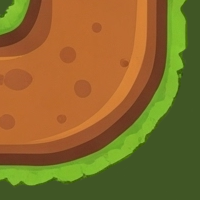
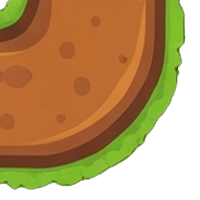
fixed some forest tiles. fixed audio issue, improved start event

diff --git a/src/App.tsx b/src/App.tsx
@@ -1,68 +1,48 @@
 // src/App.tsx
 import { useState, useEffect } from "react";
-
 import MainMenu from "./components/game/MainMenu";
+import StartupScreen from './StartupScreen';
 import GameManager from "./components/GameManager";
 import { audio } from "./audio/AudioManager";
 
-type Screen = "menu" | "game";
+// Importa direttamente il file audio dalla sua posizione
+import backgroundMusic from "/audio/START_Adventure_Groove.mp3";
+import gameMusic from "/audio/CiucoForestThemeSong.mp3";
 
-function App() {
-  const [screen, setScreen] = useState<Screen>("menu");
-
-  const startGame = () => setScreen("game");
+const App = () => {
+  const [screenState, setScreenState] = useState('startup');
 
   useEffect(() => {
-    audio.add("menu", "/audio/START_Adventure_Groove.mp3");
-    audio.add("level1", "/audio/START_Adventure_Groove.mp3");
-
-    const onFirstUnlock = async () => {
-      removeUnlockers();
-      try {
-        console.log("[App] First user gesture → unlocking audio");
-        await audio.play("menu", { volume: 0.55, fadeMs: 700 });
-      } catch (err) {
-        console.error("[App] Even after unlock, audio failed", err);
-      }
-    };
-
-    const addUnlockers = () => {
-      window.addEventListener("pointerdown", onFirstUnlock, { once: true });
-      window.addEventListener("keydown", onFirstUnlock, { once: true });
-      document.addEventListener("visibilitychange", onFirstUnlock, { once: true });
-    };
-
-    const removeUnlockers = () => {
-      window.removeEventListener("pointerdown", onFirstUnlock);
-      window.removeEventListener("keydown", onFirstUnlock);
-      document.removeEventListener("visibilitychange", onFirstUnlock);
-    };
-
-    const tryStartMenu = async () => {
-      try {
-        console.log("[App] Trying autoplay of menu music…");
-        await audio.play("menu", { volume: 0.55, fadeMs: 700 });
-        removeUnlockers();
-      } catch {
-        console.log("[App] Autoplay blocked, waiting for first user gesture");
-        addUnlockers();
-      }
-    };
-
-    void tryStartMenu();
-
-    return () => {
-      removeUnlockers();
-      // opzionale: audio.stopAll();
-    };
+    console.log("[App.tsx] Caricamento iniziale...");
+    audio.add('MainMenu_Theme', backgroundMusic);
+    audio.add('CiucoForest_Theme', gameMusic);
   }, []);
 
+  const handleShowMainMenu = () => {
+    console.log("[App.tsx] Transizione a MainMenu.");
+    setScreenState('mainMenu');
+  };
+
+  const handleStartGame = () => {
+    console.log("[App.tsx] Avvio del gioco.");
+    audio.stop('MainMenu_Theme');
+    audio.play('CiucoForest_Theme', { loop: true, volume: 0.5, fadeMs: 600 });
+    setScreenState('game');
+  };
+
   return (
-    <main className="min-h-screen w-full">
-      {screen === "menu" && <MainMenu onStartNewGame={startGame} />}
-      {screen === "game" && <GameManager />}
-    </main>
+    <div className="App">
+      {screenState === 'startup' && (
+        <StartupScreen onStart={handleShowMainMenu} />
+      )}
+      {screenState === 'mainMenu' && (
+        <MainMenu onStartNewGame={handleStartGame} />
+      )}
+      {screenState === 'game' && (
+        <GameManager />
+      )}
+    </div>
   );
-}
+};
 
 export default App;

diff --git a/src/components/game/MainMenu.tsx b/src/components/game/MainMenu.tsx
@@ -1,3 +1,5 @@
+// src/components/game/MainMenu.tsx
+
 import { useState, useEffect } from 'react';
 import { Button } from "@/components/ui/button";
 
@@ -5,7 +7,7 @@ import mainMenuBackground from '@/assets/SfondoCiuco1.png';
 import titleImage from '@/assets/MainPageTitle3.png';
 
 interface MainMenuProps {
-  onStartNewGame: () => void;
+  onStartNewGame: () => void; // L'interfaccia è corretta
 }
 
 const MainMenu = ({ onStartNewGame }: MainMenuProps) => {
@@ -26,7 +28,6 @@ const MainMenu = ({ onStartNewGame }: MainMenuProps) => {
     };
   }, []);
 
-  // Classi per il contenitore principale che cambiano allineamento
   const mainContainerClasses = `
     absolute inset-0 w-full h-full flex flex-col p-8 transition-all duration-1000
     ${animationState === 'loaded' ? 'items-start justify-end' : 'items-center justify-center'}
@@ -34,7 +35,6 @@ const MainMenu = ({ onStartNewGame }: MainMenuProps) => {
 
   return (
     <div className="min-h-screen w-full relative overflow-hidden bg-black">
-      {/* SFONDO DEL MENU (che appare con dissolvenza) */}
       <div
         className="absolute inset-0 w-full h-full transition-opacity duration-1000"
         style={{
@@ -44,13 +44,7 @@ const MainMenu = ({ onStartNewGame }: MainMenuProps) => {
           opacity: animationState === 'loaded' ? 1 : 0,
         }}
       />
-
-      {/* CONTENITORE PER GLI ELEMENTI ANIMATI */}
-      {/* 1. MODIFICA: L'allineamento cambia da 'center' a 'start' (sinistra) */}
       <div className={mainContainerClasses}>
-
-        {/* BOTTONI DEL MENU (ora allineati a sinistra) */}
-        {/* Vengono renderizzati prima del logo per il controllo z-index, ma appaiono dopo */}
         <div
           className={`
             flex flex-col gap-4 w-full max-w-xs
@@ -59,6 +53,7 @@ const MainMenu = ({ onStartNewGame }: MainMenuProps) => {
           `}
         >
           <Button
+            // CORRETTO: Chiamiamo la prop onStartNewGame
             onClick={onStartNewGame}
             className="text-lg py-6 bg-green-600/80 hover:bg-green-500/80 shadow-lg border-green-400/50"
           >
@@ -72,9 +67,6 @@ const MainMenu = ({ onStartNewGame }: MainMenuProps) => {
           </Button>
         </div>
       </div>
-
-      {/* SFONDO NERO INIZIALE (che scompare) */}
-      {/* Questo `div` sta sopra lo sfondo del menu ma sotto il logo */}
       <div
         className={`
           absolute inset-0 w-full h-full bg-black z-10
@@ -82,9 +74,6 @@ const MainMenu = ({ onStartNewGame }: MainMenuProps) => {
           ${animationState === 'loaded' ? 'opacity-0 pointer-events-none' : 'opacity-100'}
         `}
       />
-
-      {/* IMMAGINE DEL TITOLO ANIMATA (Sopra tutto) */}
-      {/* 2. MODIFICA: Animazione e posizione finale a sinistra */}
       <img
         src={titleImage}
         alt="DonkeyChicken Odyssey Title"

diff --git a/src/audio/AudioManager.ts b/src/audio/AudioManager.ts
@@ -1,3 +1,5 @@
+// src/audio/AudioManager.ts
+
 class AudioManager {
   private tracks: Record<string, HTMLAudioElement> = {};
   private current?: string;
@@ -8,7 +10,6 @@ class AudioManager {
     a.preload = "auto";
     a.loop = true;
     a.volume = 0;
-    a.muted = true; // 👈 trucco: partire muted
     this.tracks[name] = a;
     console.log(`[AudioManager] Added track "${name}" -> ${url}`);
   }
@@ -21,23 +22,41 @@ class AudioManager {
       return;
     }
 
-    next.loop = loop;
-    try {
-      if (next.paused) {
-        await next.play();
-        console.log(`[AudioManager] Playing track "${name}" (muted-first OK)`);
-      }
-      // smuta subito dopo per sbloccare
-      setTimeout(() => {
-        next.muted = false;
-        console.log(`[AudioManager] Track "${name}" unmuted`);
-      }, 0);
-    } catch (err) {
-      console.warn(`[AudioManager] Autoplay blocked for "${name}"`, err);
-      throw err; // rilancia, così gli unlockers in App.tsx intervengono
+    if (this.current && this.current !== name) {
+        this.stop(this.current);
     }
 
-    // qui puoi mettere la logica di cross-fade (omessa per brevità)
+    this.current = name;
+    next.loop = loop;
+    try {
+        // Aggiungi un'interazione esplicita per attivare la riproduzione
+        if (next.paused) {
+            await next.play();
+            console.log(`[AudioManager] Playing track "${name}" (unmuted)`);
+            next.volume = volume;
+        }
+    } catch (err) {
+      console.warn(`[AudioManager] Autoplay blocked for "${name}"`, err);
+      // Rilancia l'errore per gestirlo nel componente App
+      throw err;
+    }
+
+    // Il cross-fade può essere aggiunto qui, se necessario
+  }
+
+  stop(name: string) {
+    const track = this.tracks[name];
+    if (track) {
+      track.pause();
+      track.currentTime = 0;
+      console.log(`[AudioManager] Track "${name}" fermata.`);
+    }
+  }
+
+  stopAll() {
+    for (const name in this.tracks) {
+      this.stop(name);
+    }
   }
 }
 

diff --git a/src/StartupScreen.tsx b/src/StartupScreen.tsx
@@ -1,0 +1,52 @@
+// src/components/StartupScreen.tsx
+
+import { useEffect, useState } from 'react';
+import { audio } from './audio/AudioManager';
+
+interface StartupScreenProps {
+  onStart: () => void;
+}
+
+const StartupScreen = ({ onStart }: StartupScreenProps) => {
+  const [isVisible, setIsVisible] = useState(true);
+
+  const handleInteraction = () => {
+    // Avvia la musica del menu
+    audio.play('MainMenu_Theme', { loop: true, volume: 0.5, fadeMs: 600 });
+
+    // Inizia la transizione di dissolvenza
+    setIsVisible(false);
+
+    // Dopo che la transizione è finita, passa alla schermata successiva
+    setTimeout(() => {
+        onStart();
+    }, 1000); // La durata del timeout deve corrispondere alla durata della transizione CSS
+  };
+
+  useEffect(() => {
+    const handleKeyDown = () => {
+      handleInteraction();
+    };
+    window.addEventListener('keydown', handleKeyDown);
+    return () => {
+      window.removeEventListener('keydown', handleKeyDown);
+    };
+  }, [onStart]);
+
+  return (
+    <div
+      onClick={handleInteraction}
+      className={`
+        fixed inset-0 bg-black flex flex-col items-center justify-center cursor-pointer
+        transition-opacity duration-1000
+        ${isVisible ? 'opacity-100' : 'opacity-0 pointer-events-none'}
+      `}
+    >
+      <div className="text-center">
+        <p className="text-white text-3xl font-bold">TAP per cominciare</p>
+      </div>
+    </div>
+  );
+};
+
+export default StartupScreen;

diff --git a/src/components/levels.tsx b/src/components/levels.tsx
@@ -13,12 +13,12 @@ export const levels: Level[] = [
     doorPosition: { x: 7, y: 2 },
     enemies: [],
     grid: [
-          "----#   #-", // La - è solo per leggibilità, puoi usare spazi
+          "----#   #-",
           "----# # #-",
           "##### #D#-",
           "P   # #E#-",
           "###   ###-",
-          "-#K# #----",
+          "-#K# ##---",
           "##   #----",
     ],
   },
@@ -32,13 +32,30 @@ export const levels: Level[] = [
         { id: 201, startPosition: { x: 7, y: 4 }, type: 'bruco', behavior: 'smart_active', visionRange: 4,  moveInterval: 1000}
     ],
     grid: [
-      "###-------", // La - è solo per leggibilità, puoi usare spazi
+      "###-------",
       "#P######--",
       "# ##   #--",
       "# ## # ###",
       "#       E#",
       "##########",
       "----------",
+    ],
+  },
+      /*
+              3 - Il Sentiero Tortuoso
+       */
+  {
+    id: 3,
+    name: "MapTest",
+    enemies: [],
+    grid: [
+      "#P#       ",
+      "#    ##   ",
+      "# ##      ",
+      "# ## # ###",
+      "#        #",
+      "# ## ### E",
+      "     #    ",
     ],
   },
   // ... puoi aggiungere qui fino al livello 100

diff --git a/src/components/GameManager.tsx b/src/components/GameManager.tsx
@@ -10,6 +10,10 @@ import { GRID_WIDTH, GRID_HEIGHT } from "@/config/Constants";
 import { getInitialGameState, findPath } from "@/utils/gameUtils";
 import { GameAssets } from "@/config/Assets";
 
+interface GameManagerProps {
+    startAudio: boolean; // Indica se l'audio può partire
+}
+
 const GameManager = () => {
   const { toast } = useToast();
   const [currentLevelIndex, setCurrentLevelIndex] = useState(0);
@@ -199,16 +203,6 @@ const GameManager = () => {
     return () => clearTimeout(timerId);
   }, [gameState.gameWon, handleNextLevel]);
 
-  // EFFETTO: Gestione audio
-  useEffect(() => {
-    if (!audioRef.current) {
-      audioRef.current = new Audio('/audio/START_Adventure_Groove.mp3');
-      audioRef.current.loop = true;
-      audioRef.current.volume = 0.5;
-    }
-    audioRef.current.play().catch(error => console.warn("La riproduzione automatica della musica è stata bloccata dal browser.", error));
-    return () => audioRef.current?.pause();
-  }, []);
 
   return (
     <GameBoard
